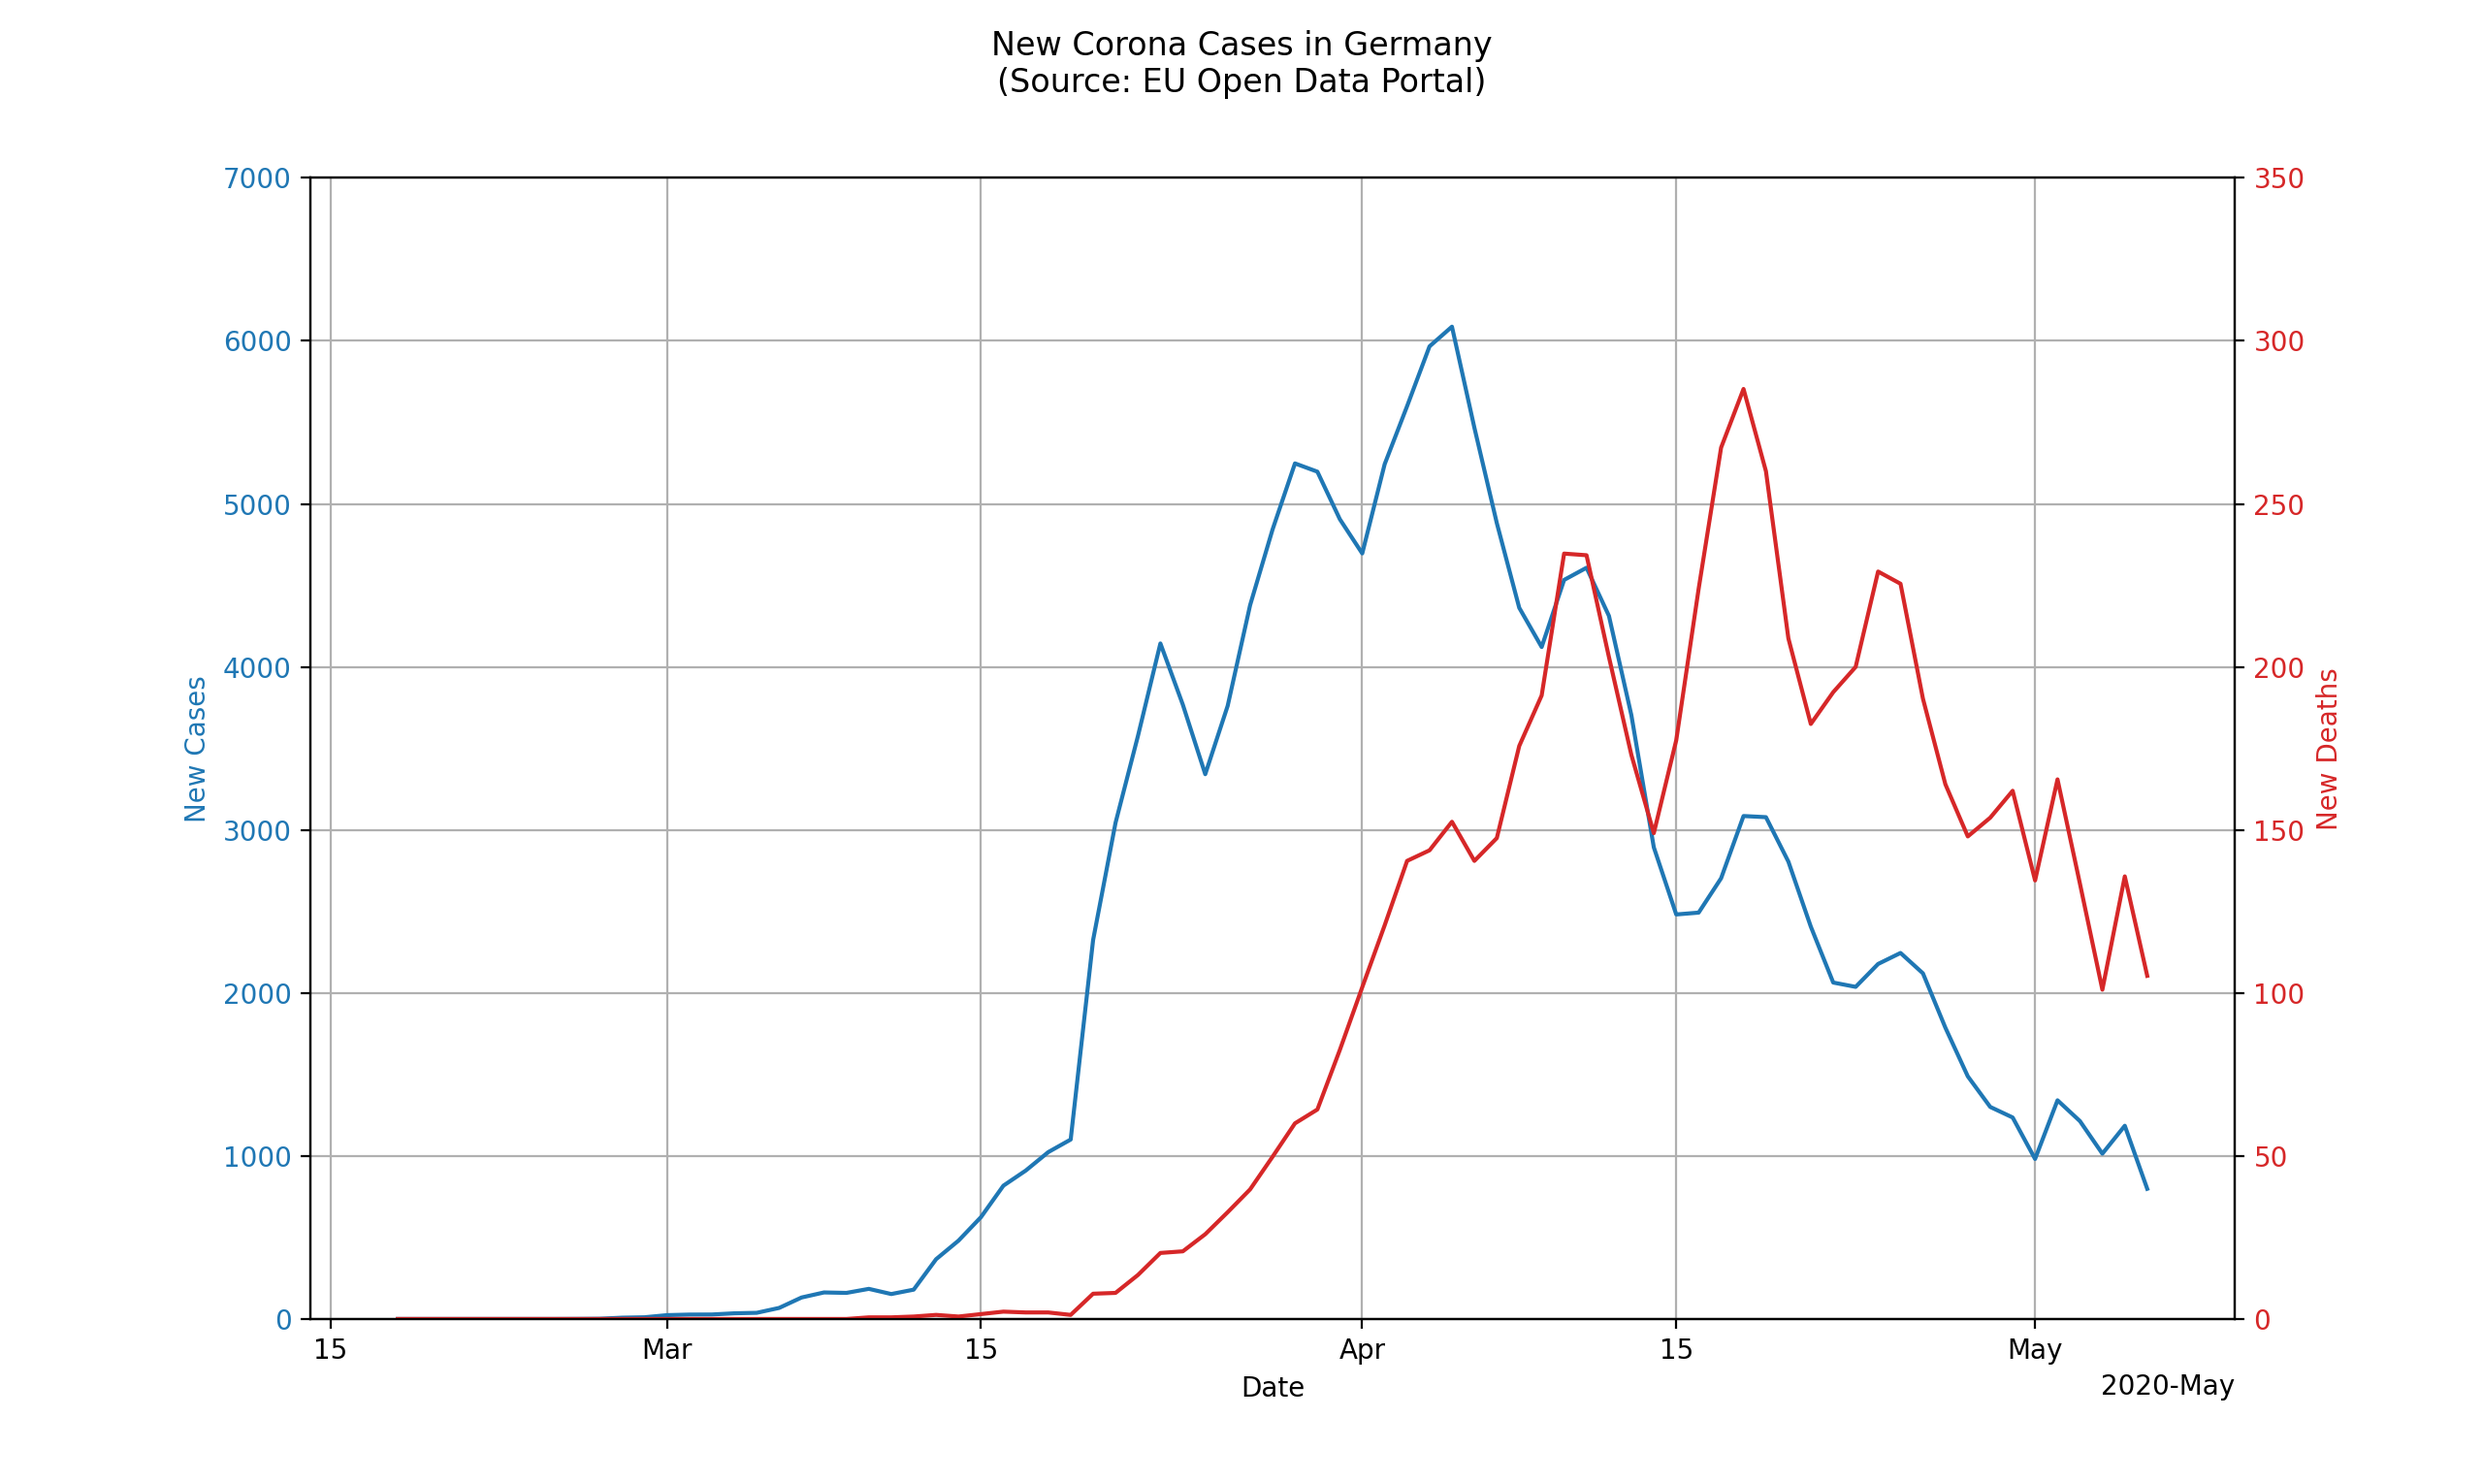
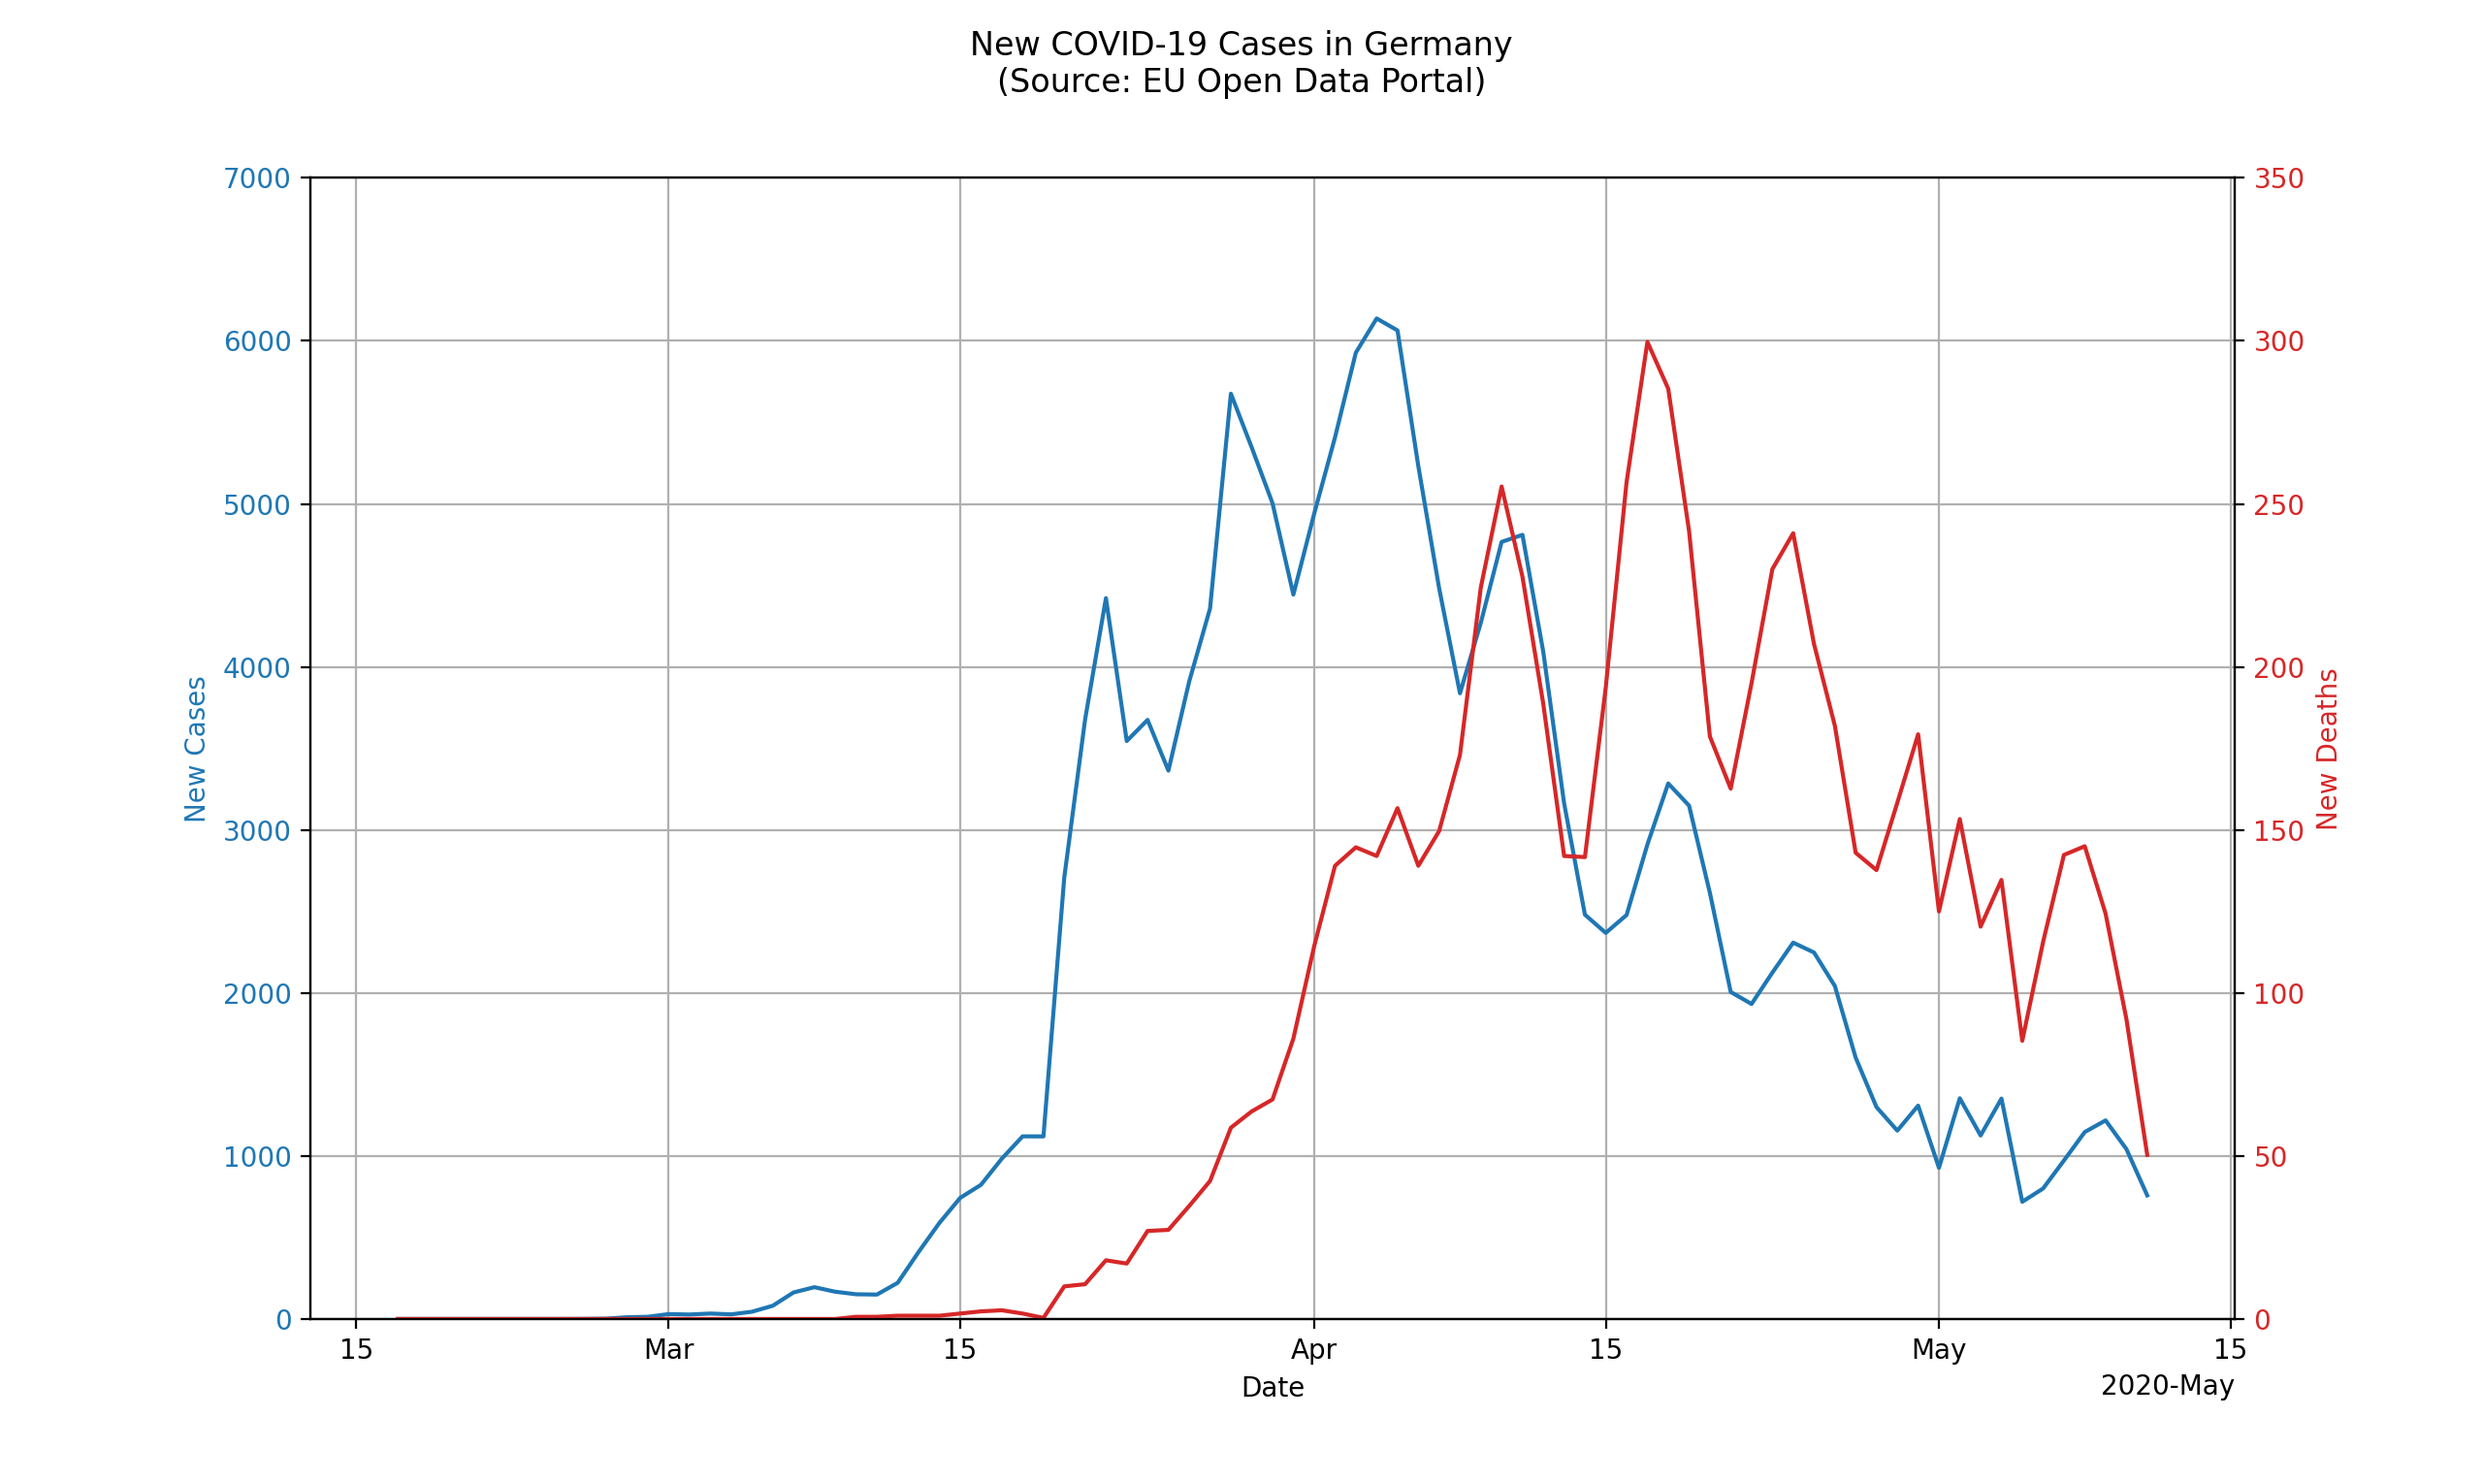
new cases updated

diff --git a/corona_analysis.py b/corona_analysis.py
@@ -33,7 +33,7 @@ def corona_cases_germany():
     t = []
     a = []
     b = []
-    window = 4
+    window = 3
     stride = 1
     for i in range(0, len(time) - (window-1), stride):
         t.append(time[i+window-1])

diff --git a/README.md b/README.md
@@ -75,9 +75,9 @@ The source code can be found in the function `total_corona_deaths_germany` in `c
 ![](results/corona_total_deaths_germany.png)
 
 ### New COVID-19 cases/deaths per day in germany
-The source code can be found in the function `corona_cases_germany` in `corona_analysis.py`. This curve is smoothed by averaging each day with 3 days before (sliding window smoothing with a window size of 4 and a stride of 1).
+The source code can be found in the function `corona_cases_germany` in `corona_analysis.py`. This curve is smoothed by averaging each day with 2 days before (sliding window smoothing with a window size of 3 and a stride of 1).
 
-**Note**: One can see that (if scaled to match) the COVID-19 cases and the deaths are correlated by a delay of about 10 to 15 days. This way it may be possible to calculate the death rate for each day in retrospective, by comparing the deaths of each day with the cases of about 10 to 15 days ago.
+**Note**: One can see that (if scaled to match) the COVID-19 cases and the deaths are correlated by a delay of about 10 to 15 days.
 
 ![](results/corona_new_cases_germany.png)
 
